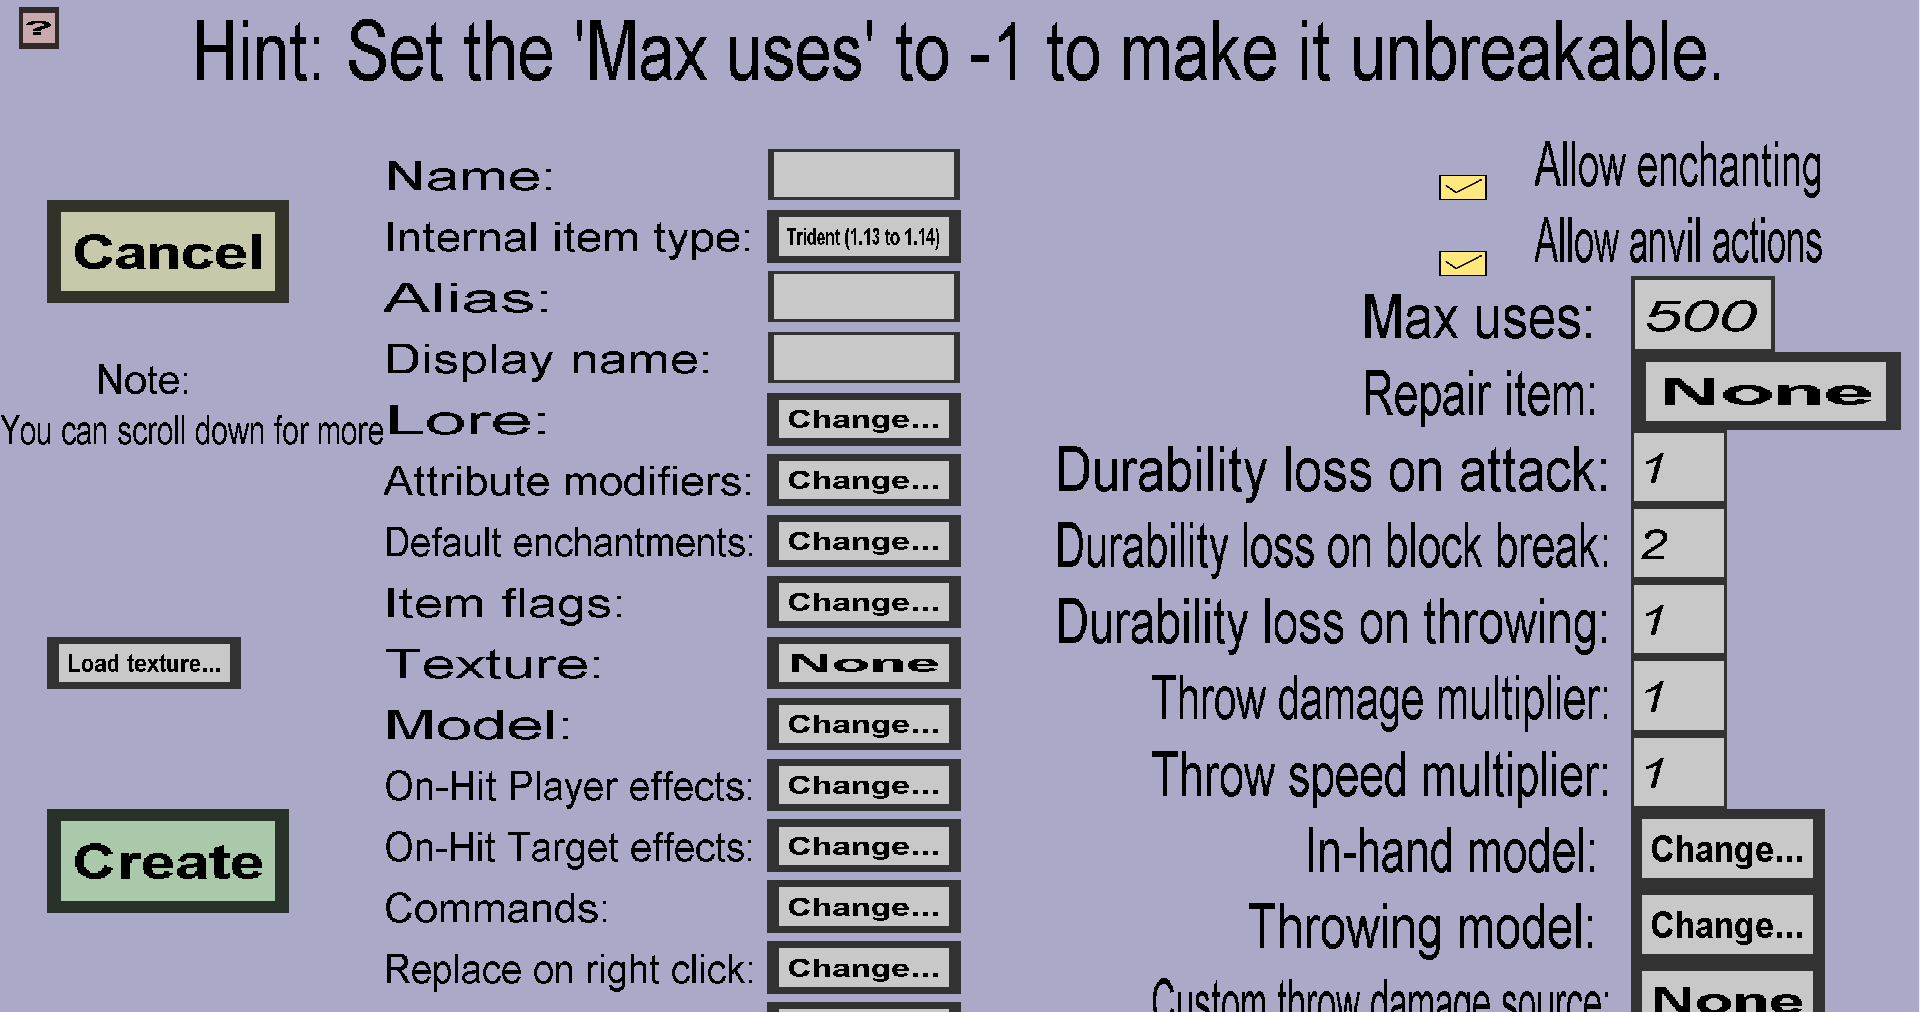
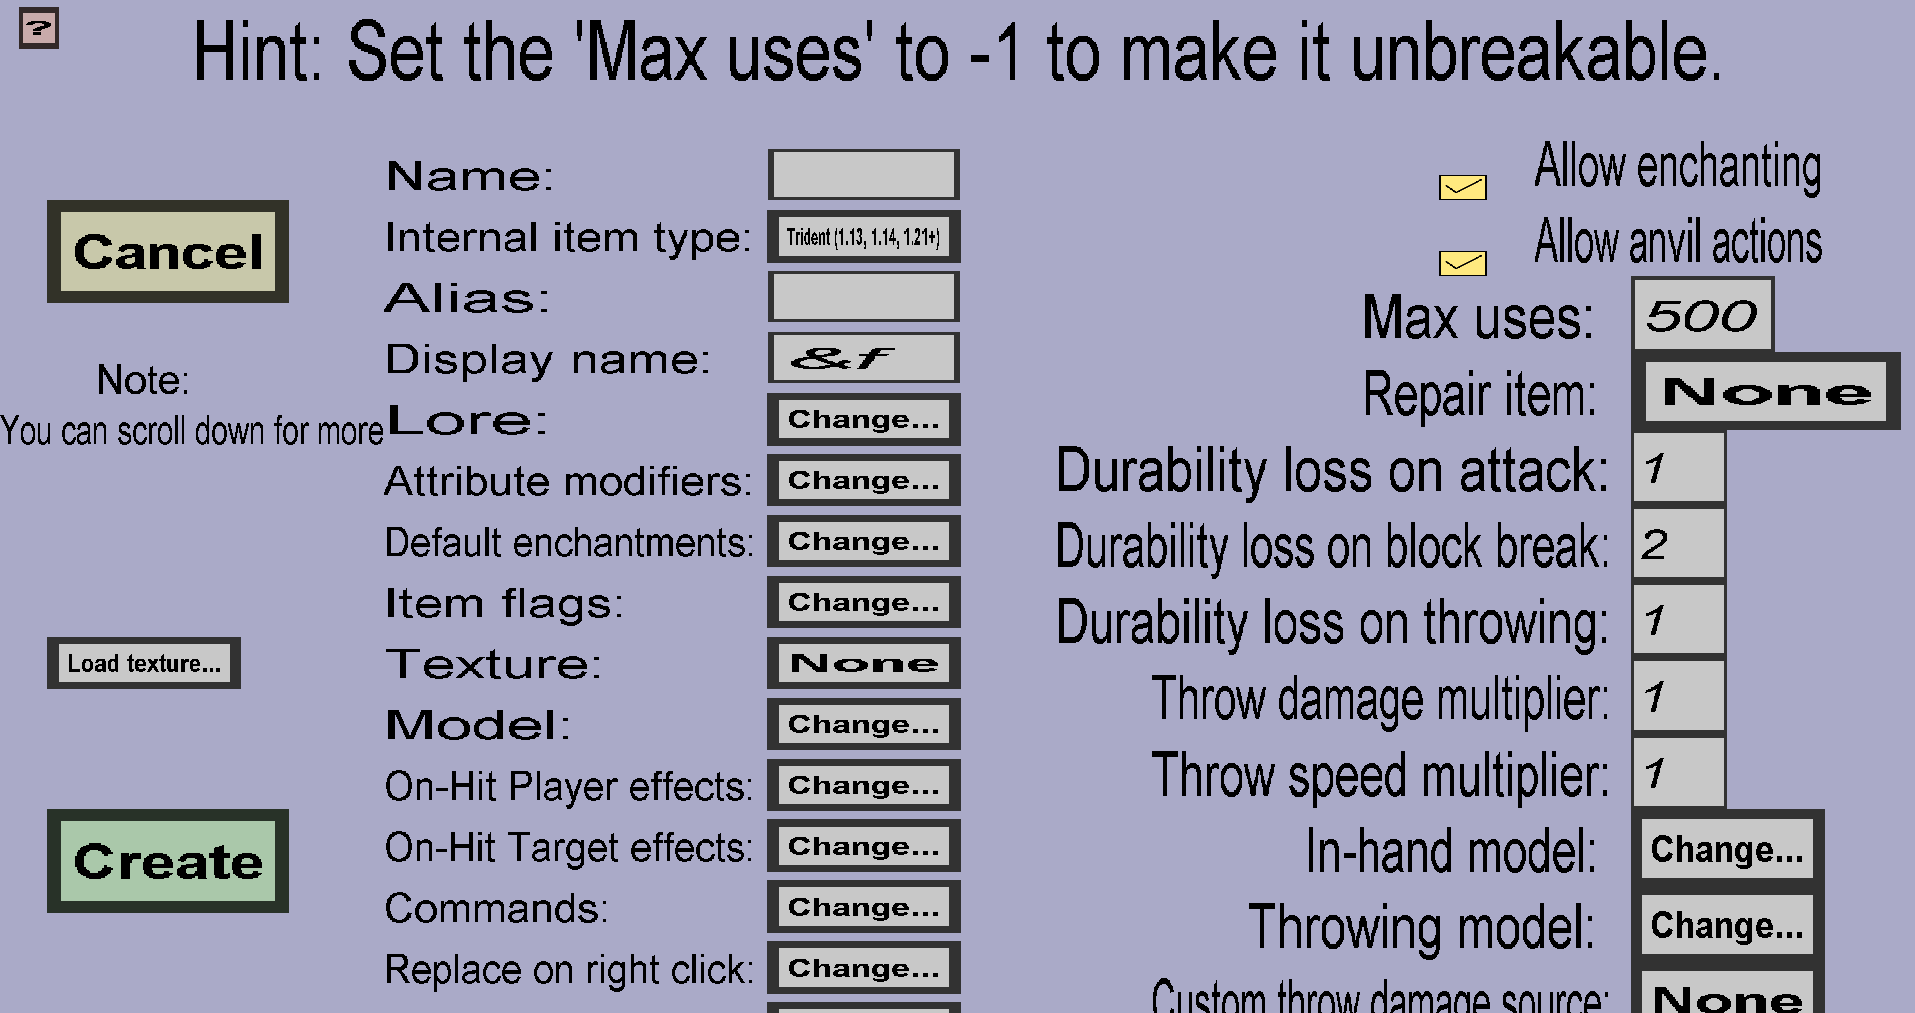
Update docs for KCI 13.6

diff --git a/custom items/editor documentation/edit menu/items/select type.html b/custom items/editor documentation/edit menu/items/select type.html
@@ -100,11 +100,10 @@
                     resistances. The corresponding edit menu is the <a href="edit/elytra.html">elytra edit menu</a>.
                 </li>
                 <li>
-                    'Trident (1.13 and 1.14)' is for custom tridents. Custom tridents can be thrown just like normal tridents,
-                    but will lose their special texture as soon as they are thrown. As the name suggests, it's only for 
-                    minecraft servers with version 1.13 and 1.14. They are not available before 1.13 because minecraft 
-                    didn't have normal tridents before 1.13 and custom tridents are not available after 1.14 because minecraft
-                    introduced a resourcepack bug in 1.15 that doesn't seem to be solved, even in 1.16. 
+                    'Trident (1.13, 1.14, 1.21+)' is for custom tridents. Custom tridents can be thrown just like normal tridents,
+                    but will lose their special texture as soon as they are thrown. Custom tridents are available in MC 1.21 and
+                    later versions, as well as MC 1.13 and MC 1.14. Custom tridents are not supported in MC 1.15 to MC 1.20 due
+                    to a minecraft resourcepack bug introduced in 1.15 and fixed in 1.21.
                     The corresponding edit menu is the <a href="edit/trident.html">trident edit menu</a>.
                 </li>
                 <li>

diff --git a/custom items/editor documentation/edit menu/items/edit/trident.html b/custom items/editor documentation/edit menu/items/edit/trident.html
@@ -7,9 +7,8 @@
     <body>
         <p>
             The trident edit menu can be used to modify or create custom tridents. 
-            Note that custom tridents can only be used if the minecraft version of the server is at least 1.13 (because tridents were
-            added in minecraft 1.13) and before minecraft 1.15, because minecraft introduced a resourcepack bug for 
-            tridents in that version. It should look like this:
+            Note that custom tridents can't be used between minecraft 1.15 and 1.20 due to a minecraft resourcebug
+            that was fixed in 1.21. It should look like this:
         </p>
         <img src="trident.png" width="50%" />
         <p>

diff --git a/custom items/index.html b/custom items/index.html
@@ -51,7 +51,7 @@
             <li>Minecraft 1.18.2</li>
             <li>Minecraft 1.19.4</li>
             <li>Minecraft 1.20.6</li>
-            <li>Minecraft 1.21.1: <b>requires a Spigot/Paper build from 31th of August 2024, or later</b></li>
+            <li>Minecraft 1.21.4</li>
         </ul>
     </body>
 </html>
